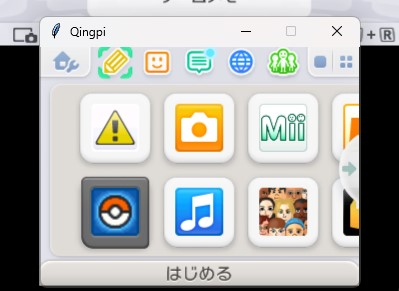
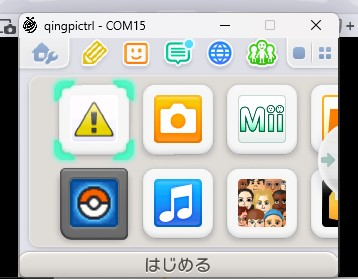
qingpictrl app

diff --git a/qingpi-python/qingpi/gui/icon.py b/qingpi-python/qingpi/gui/icon.py
@@ -1,0 +1,1 @@
[1 lines of base64/hex data omitted]

diff --git a/qingpi-python/qingpi/__main__.py b/qingpi-python/qingpi/__main__.py
@@ -1,4 +1,5 @@
 import argparse
+import base64
 import tkinter as tk
 
 import serial
@@ -6,11 +7,12 @@ import serial
 import qingpi
 from qingpi import *  # type: ignore
 
-from .controller.ui import *
-from .controller.button import *
-from .controller.hat import *
-from .controller.slidepad import *
-from .controller.touchscreen import *
+from qingpi.gui.gui import *
+from qingpi.gui.button import *
+from qingpi.gui.hat import *
+from qingpi.gui.slidepad import *
+from qingpi.gui.touchscreen import *
+from qingpi.gui.icon import ICON
 
 
 def on_button_change(hold, release):
@@ -106,7 +108,19 @@ def on_touchscreen_release(_, release):
     return _on_touchscreen_release
 
 
-def main(args: argparse.Namespace) -> None:
+def main() -> None:
+    parser = argparse.ArgumentParser(
+        prog="__main__.py",
+        description="GUI application to control Qingpi with transparent Window and Citra compatible keyboard operation.",
+    )
+    parser.add_argument(
+        "port",
+        type=str,
+        help="Serial port name.",
+    )
+    parser.add_argument("--debug", action="store_true")
+    args = parser.parse_args()
+
     ser = serial.Serial(args.port)
     if not args.debug:
         hold, release = qingpi.init(ser)
@@ -123,9 +137,7 @@ def main(args: argparse.Namespace) -> None:
         hold, release = qingpi.init(DebugWriter(ser))
 
     root = tk.Tk()
-    # kind of a bit buggy.
-    # root.iconbitmap("icon.ico")
-    root.title("Qingpi")
+    root.title(f"qingpictrl - {args.port}")
 
     touchscreen_size = TouchScreenSize(width=320, height=240)
 
@@ -148,20 +160,14 @@ def main(args: argparse.Namespace) -> None:
         on_touchscreen_hold(hold, release),
         on_touchscreen_release(hold, release),
     )
+    
+    # Kind of a bit buggy.
+    # It won't work properly unless write it here.
+    iconphoto = tk.PhotoImage(data=base64.b64decode(ICON))
+    root.iconphoto(False, iconphoto)
 
     root.mainloop()
 
 
 if __name__ == "__main__":
-    parser = argparse.ArgumentParser(
-        prog="__main__.py",
-        description="GUI application to control Qingpi with transparent Window and Citra compatible keyboard operation.",
-    )
-    parser.add_argument(
-        "port",
-        type=str,
-        help="Serial port name.",
-    )
-    parser.add_argument("--debug", action="store_true")
-    args = parser.parse_args()
-    main(args)
+    main()

diff --git a/qingpi-python/qingpi/gui/gui.py b/qingpi-python/qingpi/gui/gui.py
@@ -32,6 +32,9 @@ def make_window_transparent(master: tk.Tk):
     master.wm_attributes("-transparentcolor", "white")
 
 
+ALMOST_TRANSPARENT = 0.0019607843138
+
+
 def create_transparent_filler(master: tk.Tk):
     filler = tk.Toplevel(master)
 
@@ -40,7 +43,7 @@ def create_transparent_filler(master: tk.Tk):
     # Erase window frame
     filler.overrideredirect(True)
     # Make the filler transparent. As close to 0 as possible, as long as it is clickable.
-    filler.wm_attributes("-alpha", 0.0019607843138)
+    filler.wm_attributes("-alpha", ALMOST_TRANSPARENT)
 
     # To learn what's going on, uncomment below.
     # filler.overrideredirect(False)

diff --git a/qingpi-python/tools/create_zip_archive.py b/qingpi-python/tools/create_zip_archive.py
@@ -1,0 +1,10 @@
+import tomllib
+import zipfile
+import os
+
+with open("pyproject.toml", "rb") as f:
+    data = tomllib.load(f)
+    version = data["tool"]["poetry"]["version"]
+    with zipfile.ZipFile(f"qingpictrl_v{version}.zip", "w", zipfile.ZIP_DEFLATED) as zf:
+        zf.write("dist/qingpictrl.exe", os.path.basename("dist/qingpictrl.exe"))
+        zf.write("README.md", os.path.basename("README.md"))

diff --git a/qingpi-python/README.md b/qingpi-python/README.md
@@ -6,7 +6,7 @@ Python library for Qingpi.
 $ pip install qingpi-python
 ```
 
-## qingpi-controller
+## qingpictrl
 
 GUI application to control Qingpi with transparent Window and Citra compatible keyboard operation.
 
@@ -17,13 +17,25 @@ Currently, only Windows version is available.
 ### Run
 
 ```shell-session
-$ python -m qingpi [port]
+$ qingpictrl [port]
 ```
 
 or
 
 ```shell-session
-> qingpi-controller.exe [port]
+$ python -m qingpi [port]
+```
+
+or using pre-built binary
+
+```shell-session
+> qingpictrl.exe [port]
+```
+
+You may create batch file like this if you don't want to specify the port from the command line every time.
+
+```bat
+START qingpictrl.exe COM6
 ```
 
 ### Input mapping
